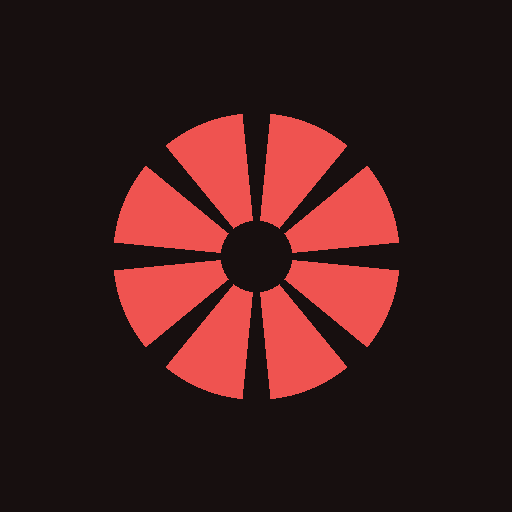
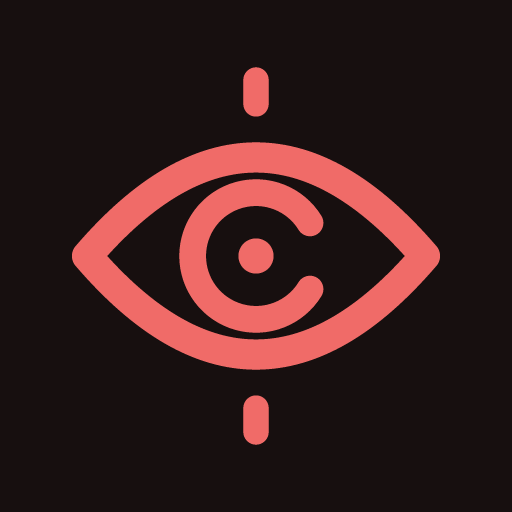
Use eye and focus branding

Changed region(s): [[0.125, 0.125, 0.875, 0.875], [0.4688, 0.4688, 0.5312, 0.5312]]

diff --git a/src/main.tsx b/src/main.tsx
@@ -1,5 +1,6 @@
 import React, { useEffect, useMemo, useRef, useState } from "react";
 import { createRoot } from "react-dom/client";
+import { BrandMark } from "./components/BrandMark";
 import {
   initialData,
   validate,
@@ -1020,9 +1021,7 @@ function App() {
                 navigate("Practice");
               }}
             >
-              <span className="brand-mark" aria-hidden="true">
-                ✳
-              </span>{" "}
+              <BrandMark />
               mangekyo
               <span className="brand-caption">{t("brand.caption")}</span>
             </a>
@@ -1071,9 +1070,7 @@ function App() {
             className="loading-state"
             role="status"
           >
-            <span className="brand-mark" aria-hidden="true">
-              ✳
-            </span>
+            <BrandMark />
             <p>{t("app.loading")}</p>
           </main>
         ) : current ? (

diff --git a/index.html b/index.html
@@ -8,9 +8,14 @@
     />
     <meta name="theme-color" content="#170f0f" />
     <meta name="apple-mobile-web-app-capable" content="yes" />
-    <link rel="icon" type="image/png" href="./icon-192.png" />
+    <link rel="icon" type="image/svg+xml" sizes="any" href="./icon.svg" />
+    <link rel="icon" type="image/png" sizes="32x32" href="./favicon-32.png" />
     <link rel="manifest" href="./manifest.webmanifest" />
-    <link rel="apple-touch-icon" href="./icon-192.png" />
+    <link
+      rel="apple-touch-icon"
+      sizes="180x180"
+      href="./apple-touch-icon.png"
+    />
     <title>Mangekyo · Visual practice</title>
   </head>
   <body>

diff --git a/src/style.css b/src/style.css
@@ -223,9 +223,10 @@ header {
   letter-spacing: -0.055em;
 }
 .brand-mark {
-  font-size: 2.4rem;
-  line-height: 1;
-  color: var(--accent);
+  display: block;
+  flex: 0 0 auto;
+  width: 2.25rem;
+  height: 2.25rem;
 }
 .brand-caption {
   font-size: 0.6rem;
@@ -285,7 +286,8 @@ header {
   gap: 1rem;
 }
 .loading-state .brand-mark {
-  font-size: 3rem;
+  width: 3rem;
+  height: 3rem;
 }
 .loading-state p {
   font-size: 0.9rem;

diff --git a/src/components/BrandMark.tsx b/src/components/BrandMark.tsx
@@ -1,0 +1,13 @@
+export function BrandMark() {
+  return (
+    <img
+      className="brand-mark"
+      src="./brand-mark.svg"
+      width="36"
+      height="36"
+      alt=""
+      aria-hidden="true"
+      draggable={false}
+    />
+  );
+}

diff --git a/docs/apple-design-audit.md b/docs/apple-design-audit.md
@@ -280,3 +280,9 @@ Visual discrimination retains its presentation. Size changes need at least five 
 Custom pursuit settings now offer Vary speed with a 10–60% variation slider, initially 35%. Default preserves the prior steady timing. A stored per-session sequence smoothly changes path rate over random 3–7-second intervals; the integrated phase prevents jumps when speed changes. New sessions and Repeat choose fresh sequences, while pause/reload recovery keeps the exact sequence and active position. Gentler motion also caps variable pursuit during Repeat. No extra activity mode, live telemetry panel or decorative motion was added.
 
 The setting and recorded variation use the English/Vietnamese catalogs and existing native switch/slider components. Reports distinguish steady and variable conditions. All **286 tests**, the strict production build and whitespace checks pass. Responsive, persistence, Default reset and offline recovery checks are recorded in the accessibility review; physical iPhone and intended-user evaluation remain pending.
+
+## Follow-up: a consistent eye-and-focus identity
+
+The header and loading indicator used a Unicode asterisk, which appeared as a green color emoji in the user's iOS screenshot. Replaced it with an original coral SVG eye, a C-like practice ring and a central focus point. The decorative image has explicit dimensions and stays hidden from assistive technology; the brand link retains its text name. The same drawing now supplies the favicon, 180px Apple touch icon and 192/512px install icons. Raster exports are opaque, antialiased and inset for icon masking; production builds regenerate them without additional dependencies.
+
+The browser loaded the SVG with no emoji character in the header. After stopping the production preview server, reload retained the rendered mark and Settings reported every offline asset present. Generated 32/180/192/512px PNG dimensions and opacity were checked, and the artwork was inspected at 32px and 192px. All **286 tests**, the production build and whitespace checks pass. A physical iPhone Home Screen appearance/refresh check remains manual; no reinstall or data reset was performed.

diff --git a/docs/iphone-walkthrough.vi.md b/docs/iphone-walkthrough.vi.md
@@ -65,3 +65,7 @@ Chọn Căn chỉnh trong tám bài tập. Tập thử cần có hai nút Trái/
 ## Tốc độ dõi mục tiêu
 
 Trong Dõi mục tiêu → Tùy chỉnh, bật Thay đổi tốc độ và thử Mức thay đổi tốc độ. Mục tiêu cần tăng/giảm tốc từ từ, không nhảy vị trí khi đổi tốc độ. Tạm dừng, tải lại rồi xác nhận Tiếp tục: vị trí và nhịp tập phải được giữ lại; thời gian rời ứng dụng không tính. Buổi tập mới dùng nhịp ngẫu nhiên mới. Chọn Mặc định để trở lại nhịp đều. Thử cả tùy chọn chuyển động nhẹ hơn trong Cài đặt; nhịp thay đổi vẫn phải tôn trọng giới hạn đó. Kiểm tra bản ghi có lưu nhịp và mức thay đổi. Thử riêng chữ lớn, xoay ngang và VoiceOver trên iPhone thật.
+
+## Biểu tượng ứng dụng
+
+Sau Cập nhật ứng dụng, kiểm tra đầu trang và màn hình tải dùng biểu tượng mắt màu đỏ san hô, không còn hình dấu sao xanh. Kiểm tra riêng biểu tượng trên Màn hình chính và khả năng hiển thị ngoại tuyến. Không cần xóa ứng dụng hay đặt lại dữ liệu để kiểm tra biểu tượng đầu trang.

diff --git a/README.md b/README.md
@@ -14,7 +14,9 @@ npm run build
 npm run preview
 ```
 
-The production output is `dist/`. `npm run build` type-checks the application, builds fingerprinted assets, and generates an offline service worker from those exact assets. Development mode intentionally does not register the service worker. Icons are original procedural artwork; regenerate with `node scripts/icons.mjs`.
+The production output is `dist/`. `npm run build` regenerates icons, type-checks the application, builds fingerprinted assets, and generates an offline service worker from those exact assets. Development mode intentionally does not register the service worker.
+
+Branding uses an original coral eye with a practice ring and focus point. The header and loading mark are SVG images, avoiding platform-specific emoji rendering. `npm run icons` regenerates the drawing as SVG and opaque 32/180/192/512px PNGs. The 180px file supplies the Apple touch icon, and every branding asset is included in offline caching. The manifest identity and saved practice data are unchanged.
 
 ## GitHub Pages deployment
 
